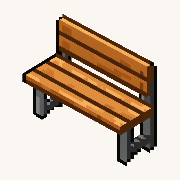
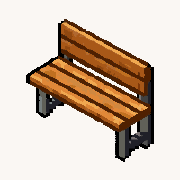
brand: rebuild the bench without white fringe pixels
Background removed by colour, cells taken by majority, a 28-colour palette,
and pale stray pixels blended into their neighbours. scripts/brand-bench.py
regenerates brand/plywood-160.png from the source art.

Changed region(s): [[0.1111, 0.0833, 0.8889, 0.9167]]

diff --git a/scripts/brand-bench.py b/scripts/brand-bench.py
@@ -1,0 +1,58 @@
+import sys, colorsys
+from collections import Counter
+from PIL import Image
+src, out = sys.argv[1], sys.argv[2]
+im = Image.open(src).convert('RGB')
+W, H = im.size
+px = im.load()
+def bgish(c):
+    r, g, b = c
+    h, s, v = colorsys.rgb_to_hsv(r/255, g/255, b/255)
+    return v > 0.80 and s < 0.12
+a = Image.new('L', (W, H), 255); ap = a.load()
+for y in range(H):
+    for x in range(W):
+        if bgish(px[x, y]): ap[x, y] = 0
+rgba = im.convert('RGBA'); rgba.putalpha(a)
+bbox = a.point(lambda v: 255 if v else 0).getbbox()
+rgba = rgba.crop(bbox)
+w, h = rgba.size; side = max(w, h)
+sq = Image.new('RGBA', (side, side), (0, 0, 0, 0)); sq.paste(rgba, ((side-w)//2, (side-h)//2))
+N = 160; cell = side / N; sp = sq.load()
+small = Image.new('RGBA', (N, N), (0, 0, 0, 0)); smp = small.load()
+for j in range(N):
+    for i in range(N):
+        x0, x1 = int(i*cell), max(int((i+1)*cell), int(i*cell)+1)
+        y0, y1 = int(j*cell), max(int((j+1)*cell), int(j*cell)+1)
+        cols = [sp[x, y] for y in range(y0, y1) for x in range(x0, x1)]
+        op = [c[:3] for c in cols if c[3]]
+        if len(op) * 2 > len(cols):
+            # quantize lightly then take the most common colour in the cell
+            q = Counter((r//8*8, g//8*8, b//8*8) for r, g, b in op).most_common(1)[0][0]
+            smp[i, j] = q + (255,)
+# palette: 18 colours over opaque pixels
+rgb = Image.new('RGB', (N, N)); rgb.paste(small.convert('RGB'))
+pal = rgb.quantize(colors=28, method=Image.Quantize.MAXCOVERAGE).convert('RGB')
+pp = pal.load()
+for j in range(N):
+    for i in range(N):
+        if smp[i, j][3]: smp[i, j] = pp[i, j] + (255,)
+# blend any remaining pale, unsaturated pixel into its neighbours
+for _ in range(2):
+    fix = []
+    for j in range(N):
+        for i in range(N):
+            c = smp[i, j]
+            if not c[3]: continue
+            h_, s_, v_ = colorsys.rgb_to_hsv(*(k/255 for k in c[:3]))
+            if v_ > 0.78 and s_ < 0.30:
+                nb = [smp[x, y] for x, y in ((i-1,j),(i+1,j),(i,j-1),(i,j+1)) if 0<=x<N and 0<=y<N and smp[x, y][3]]
+                nb = [n for n in nb if not (colorsys.rgb_to_hsv(*(k/255 for k in n[:3]))[2] > 0.78 and colorsys.rgb_to_hsv(*(k/255 for k in n[:3]))[1] < 0.30)]
+                fix.append((i, j, Counter(nb).most_common(1)[0][0] if nb else (0, 0, 0, 0)))
+    for i, j, c in fix: smp[i, j] = c
+# drop lone opaque pixels
+for j in range(N):
+    for i in range(N):
+        if smp[i, j][3] and sum(1 for x, y in ((i-1,j),(i+1,j),(i,j-1),(i,j+1)) if 0<=x<N and 0<=y<N and smp[x, y][3]) <= 1:
+            smp[i, j] = (0, 0, 0, 0)
+small.save(out)
